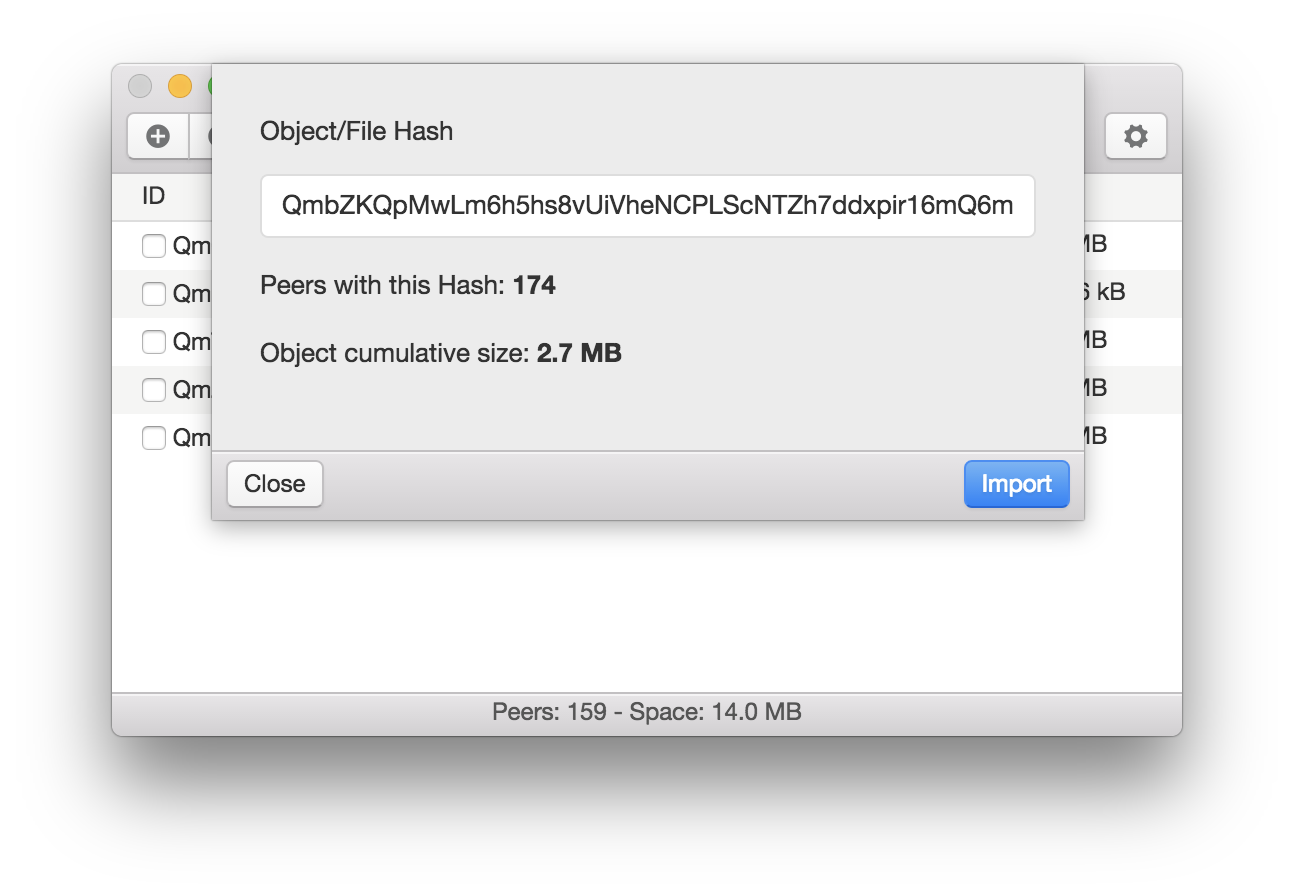
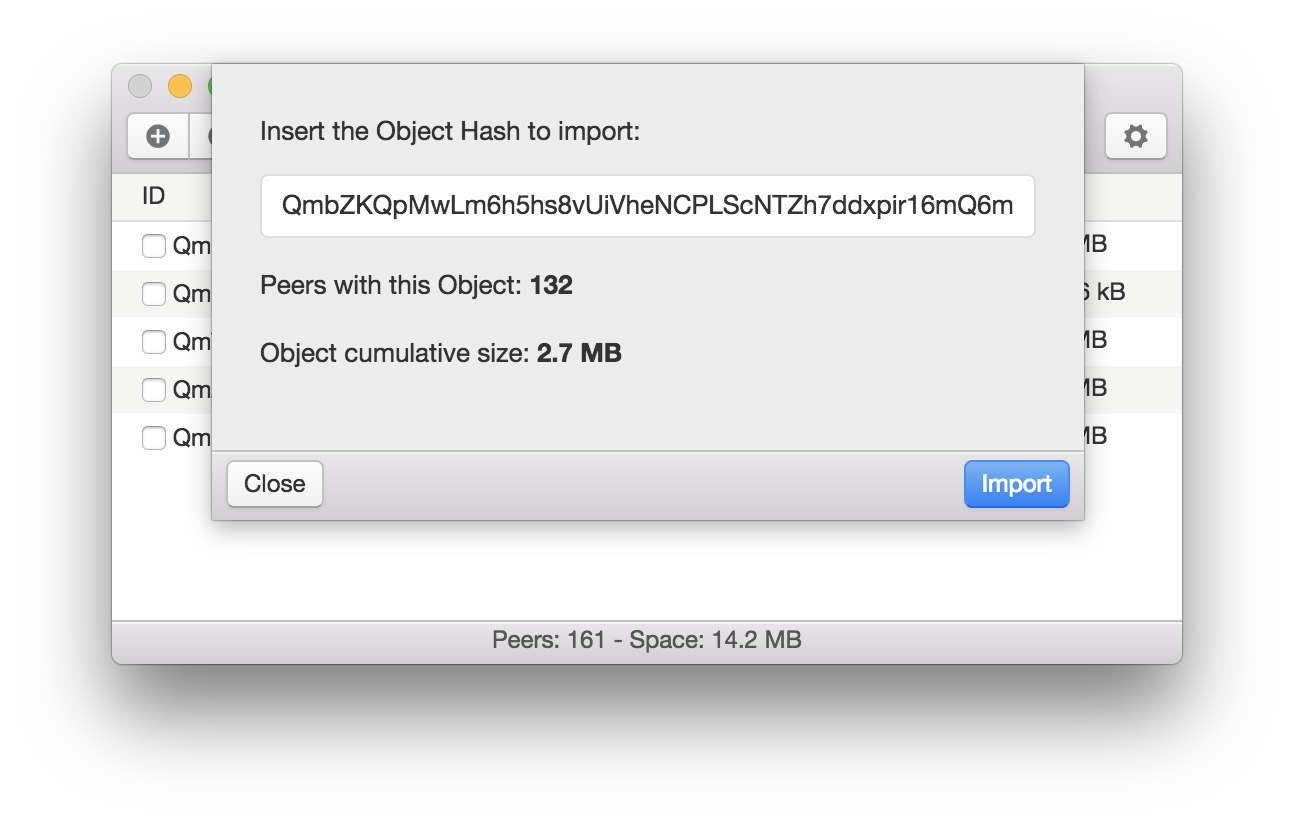
adds a better screenshots

diff --git a/README.md b/README.md
@@ -4,7 +4,8 @@ client. It allows you to easily add and remove files, and manage the repository
 and the daemon.
 
 [![Stories in Ready](https://badge.waffle.io/koalalorenzo/Lumpy.png?label=ready&title=Ready)](https://waffle.io/koalalorenzo/Lumpy)
-![StorageList Screenshot](.readme/StorageList.png)
+
+![Screenshots](.readme/main.png)
 
 **Note**: This page and project is still work in progress!
 
@@ -52,5 +53,3 @@ npm install
 # 4. Run the app
 npm start
 ```
-
-#### License [GPL 3](LICENSE.md)
